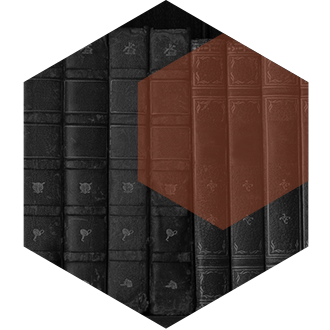
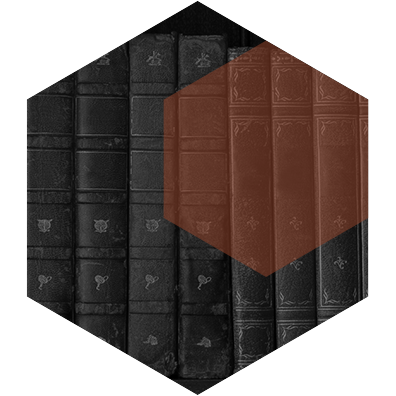
Resize Memory

diff --git a/InteractiveTable/Pages/Memory.xaml b/InteractiveTable/Pages/Memory.xaml
@@ -4,24 +4,24 @@
       xmlns:mc="http://schemas.openxmlformats.org/markup-compatibility/2006" 
       xmlns:d="http://schemas.microsoft.com/expression/blend/2008" 
       mc:Ignorable="d" 
-      d:DesignHeight="300" d:DesignWidth="300" Width="1600" Height="900">
+      d:DesignHeight="1080" d:DesignWidth="1920" Width="1920" Height="1080">
     <Canvas>
-        <Button x:Name="back_button" Template="{DynamicResource BackButtonTemplate}" Click="Back_Button_Click" Canvas.Left="60" Canvas.Top="795"/>
+        <Button x:Name="back_button" Template="{DynamicResource BackButtonTemplate}" Click="Back_Button_Click" Canvas.Left="75" Canvas.Top="955" FocusVisualStyle="{x:Null}"/>
 
         <Button x:Name="monument_button" Template="{DynamicResource HexagonButtonTemplate}" Content="/InteractiveTable;component/Images/Memory/Monument.png"
-                Tag="{DynamicResource mem_Monument}" MinWidth="300" FontFamily="/InteractiveTable;component/Fonts/#Basil Bold" FontSize="40" Foreground="White"
-                Click="Monument_Button_Click" Width="450" Height="450" Padding="28,0" Canvas.Left="317" Canvas.Top="88"/>
+                Tag="{DynamicResource mem_Monument}" MinWidth="400" FontFamily="/InteractiveTable;component/Fonts/#Basil Bold" FontSize="48" Foreground="White"
+                Click="Monument_Button_Click" Width="540" Height="540" Padding="35,0" Canvas.Left="380" Canvas.Top="110" FocusVisualStyle="{x:Null}"/>
 
         <Button x:Name="musuem_button" Template="{DynamicResource HexagonButtonTemplate}" Content="/InteractiveTable;component/Images/Memory/Museum.png"
-                Tag="{DynamicResource mem_Museum}" MinWidth="300" FontFamily="/InteractiveTable;component/Fonts/#Basil Bold" FontSize="40" Foreground="White"
-                Click="Musuem_Button_Click" Width="450" Height="450" Padding="28,0" Canvas.Left="727" Canvas.Top="68"/>
+                Tag="{DynamicResource mem_Museum}" MinWidth="400" FontFamily="/InteractiveTable;component/Fonts/#Basil Bold" FontSize="48" Foreground="White"
+                Click="Musuem_Button_Click" Width="540" Height="540" Padding="35,0" Canvas.Left="870" Canvas.Top="85" FocusVisualStyle="{x:Null}"/>
 
         <Button x:Name="theatre_button" Template="{DynamicResource HexagonButtonTemplate}" Content="/InteractiveTable;component/Images/Memory/Theatre.png"
-                Tag="{DynamicResource mem_Theatre}" MinWidth="260" FontFamily="/InteractiveTable;component/Fonts/#Basil Bold" FontSize="30" Foreground="White"
-                Click="Theatre_Button_Click" Width="370" Height="370" Padding="20,0" Canvas.Left="905" Canvas.Top="464"/>
+                Tag="{DynamicResource mem_Theatre}" MinWidth="300" FontFamily="/InteractiveTable;component/Fonts/#Basil Bold" FontSize="36" Foreground="White"
+                Click="Theatre_Button_Click" Width="444" Height="444" Padding="25,0" Canvas.Left="1085" Canvas.Top="550" FocusVisualStyle="{x:Null}"/>
 
         <Button x:Name="tolstoyHistory_button" Template="{DynamicResource HexagonButtonTemplate}" Content="/InteractiveTable;component/Images/Memory/TolstoyHistory.png"
-                Tag="{DynamicResource mem_TolstoyHistory}" MinWidth="300" FontFamily="/InteractiveTable;component/Fonts/#Basil Bold" FontSize="30" Foreground="White"
-                Click="TolstoyHistory_Button_Click" Width="330" Height="330" Padding="20,0" Canvas.Left="605" Canvas.Top="435"/>
+                Tag="{DynamicResource mem_TolstoyHistory}" MinWidth="350" FontFamily="/InteractiveTable;component/Fonts/#Basil Bold" FontSize="36" Foreground="White"
+                Click="TolstoyHistory_Button_Click" Width="396" Height="396" Padding="25,0" Canvas.Left="720" Canvas.Top="520" FocusVisualStyle="{x:Null}"/>
     </Canvas>
 </Page>
